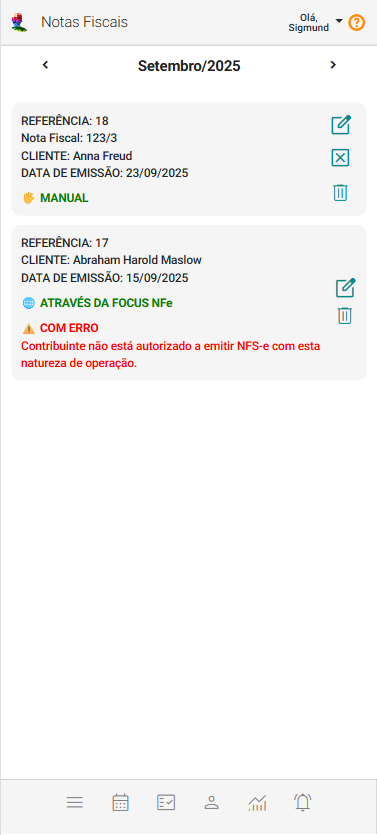
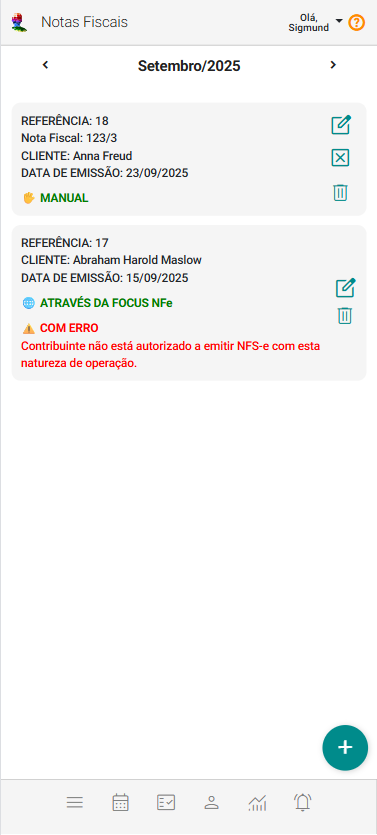
nilson

Changed region(s): [[0.8462, 0.8407, 0.992, 0.9341]]

diff --git a/docs/07_funcionalidades/18-notas-fiscais/00-visao.md b/docs/07_funcionalidades/18-notas-fiscais/00-visao.md
@@ -47,3 +47,25 @@ Cada registro de nota fiscal aparece em formato de card, contendo:
 1. **Verificar status** – Caso a nota apresente erro, leia a mensagem para corrigir a emissão.
 
 1. **Visualizar, Cancelar ou Excluir** – Utilize os ícones de ação quando necessário.
+
+## Incluir Registros de Nota Fiscal
+
+Você pode incluir novos registros de Notas Fiscais utilizando o botão ![Notas Fiscais](../../../static/img/prints/buttons/btn_add.png).
+
+Siga os passos:
+
+1. Acione o botão "Incluir Nota Fiscal" ![Notas Fiscais](../../../static/img/prints/buttons/btn_add.png).
+
+1. Selecione um cliente.
+
+1. O sistema mostra as faturas já recebidas do cliente selecionado.
+
+1. Marque as faturas que não tenham ainda nota fiscal associada.
+
+1. Acione o botão "Incluir Nota Fiscal".
+
+1. Preencha os campos relativos a nota fiscal se a NF foi emitida em outro sistema.
+
+1. Acione o botão "Salvar dados de NF" se a NF foi emitida em outro sistema.
+
+1. Acione o botão "Emitir NF com Focus NFe" se desejar emitir a NF utilizando sua integração com a plataforma Focus NFe.
